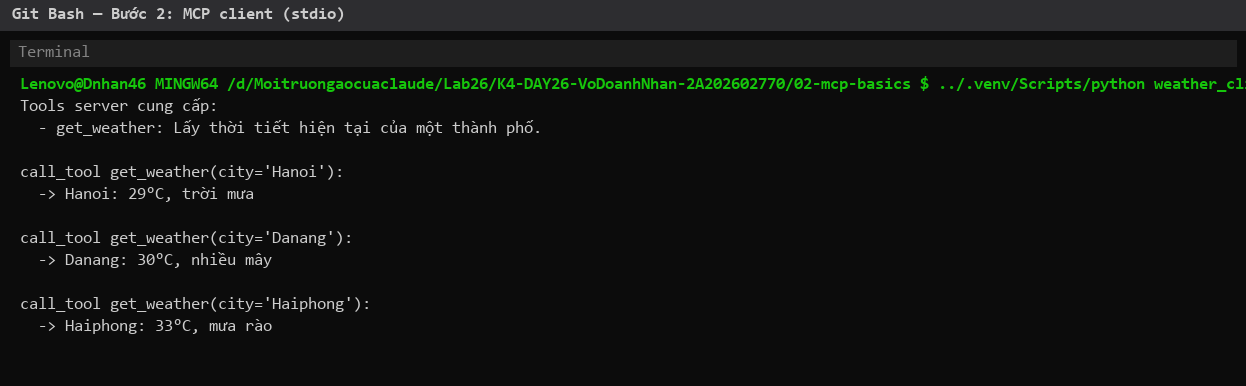
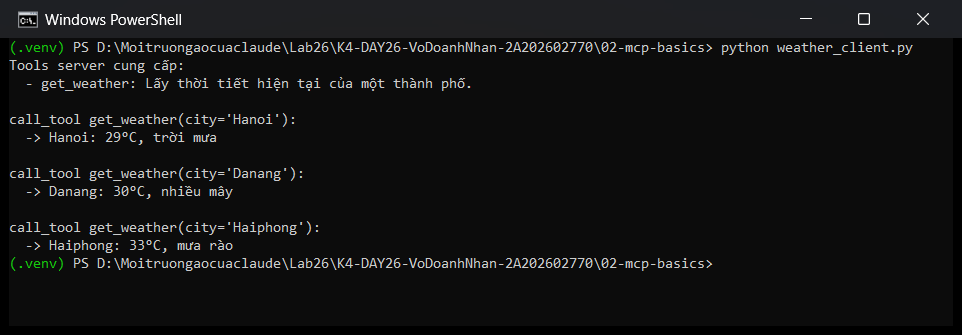
Thay ảnh terminal bằng ảnh chụp thật cửa sổ PowerShell; cập nhật ghi chú README

diff --git a/README.md b/README.md
@@ -1,7 +1,7 @@
 # Bài nộp Day 26 — Võ Doanh Nhân (MSSV 2A202602770)
 
 Repo cá nhân `K4-DAY26-VoDoanhNhan-2A202602770`, fork từ `VinUni-AI20k/Day26-MCP-Tools-Integration`.
-Chạy trên Windows 11, Python 3.12.10, Git Bash; MCP SDK 2.3.0 (bước 01–03), `uv` 0.13.1 (Lab 04), Google ADK 2.3.0.
+Chạy trên Windows 11, Python 3.12.10 (Windows PowerShell 5.1 / Git Bash); MCP SDK 2.3.0 (bước 01–03), `uv` 0.13.1 (Lab 04), Google ADK 2.3.0.
 Ngày chạy: 14/10/2026. Không có API key nào trong repo hay trong ảnh (`.env` đã bị gitignore).
 
 | Bước | Ảnh | Kết quả chính |
@@ -16,15 +16,22 @@ Ngày chạy: 14/10/2026. Không có API key nào trong repo hay trong ảnh (`.
 
 Ghi chú trung thực về cách làm:
 
-- **Ảnh terminal (01–03, 04-verify-setup)** được dựng từ output thật đã lưu của từng lệnh (chạy trong Git Bash, đúng
-  lệnh ghi trên ảnh), không phải ảnh chụp cửa sổ terminal. Trong `04-verify-setup` phần đầu key Gemini mà
-  `verify_setup.py` in ra đã được che.
+- **Ảnh terminal (01–03, 04-verify-setup)** là ảnh chụp thật cửa sổ Windows PowerShell (conhost) đang chạy đúng lệnh
+  trên ảnh, chụp bằng Windows API `PrintWindow`. `PowerShell -Command` không tự in lệnh đang chạy, nên dòng
+  `(.venv) PS ...> python ...` đầu tiên được in ra bằng `Write-Host (prompt)` ngay trước lệnh thật; dòng prompt cuối là prompt
+  thật của PowerShell. Chỉ chỉnh cách hiển thị: cỡ chữ Consolas 14 cho cửa sổ đó, và bật hiển thị màu ANSI để log
+  uvicorn không hiện ký tự điều khiển.
+- Ảnh nhiều phần là các ảnh chụp thật của cùng một lần chạy được ghép dọc: `03a-auth-ok` (client + cửa sổ server),
+  `03a-auth-fail` (client cuộn lên đầu + cuộn xuống cuối, vì traceback dài hơn màn hình + cửa sổ server có dòng
+  `401 Unauthorized`), `04-verify-setup` (cửa sổ server + cửa sổ `verify_setup.py`). Trong `04-verify-setup`, phần đầu key
+  Gemini mà `verify_setup.py` in ra đã được che.
 - **Ảnh ADK (04-adk-current, 04-adk-forecast)** là ảnh chụp thật giao diện `adk web` (Chrome headless mở đúng phiên chat
   vừa hỏi).
 - **Sửa 1 dòng code:** `03-production/registry_client.py` mở `registry.json` không chỉ định encoding, nên trên Windows
   (mặc định cp1252) báo `UnicodeDecodeError`. Đã thêm `encoding="utf-8"`; không đổi logic.
-- **Server bước 4** được khởi động nền với `PORT=8085`: `weather.py` chỉ chọn Streamable HTTP khi có `PORT` hoặc stdin là
-  terminal tương tác. Server in đúng ba dòng mong đợi, kể cả `🚀 Starting MCP server on http://0.0.0.0:8085/mcp`.
+- **Server bước 4:** ảnh `04-verify-setup` chụp server chạy trong cửa sổ PowerShell thật (stdin là terminal nên server tự
+  chọn Streamable HTTP, in đủ ba dòng mong đợi). Lúc chụp hai ảnh ADK, server được chạy nền với `PORT=8085`, vì khi
+  không có terminal tương tác thì `weather.py` chỉ chọn Streamable HTTP nếu có biến `PORT`.
 - **Câu hỏi dự báo:** câu mẫu "3-day forecast for Tokyo" bị agent từ chối, vì docstring của `get_forecast` chỉ liệt kê
   các thành phố ví dụ (Hanoi, Haiphong, Danang, Brisbane, Sydney, Melbourne) và Gemini hiểu đó là danh sách giới hạn. Giữ
   nguyên code, hỏi dự báo cho Hà Nội (đề cho phép).
